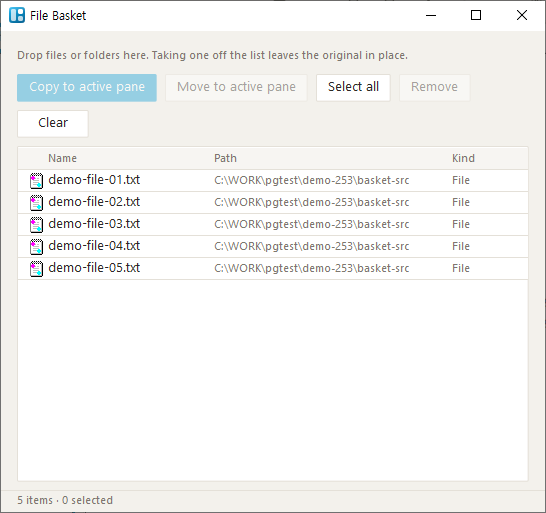
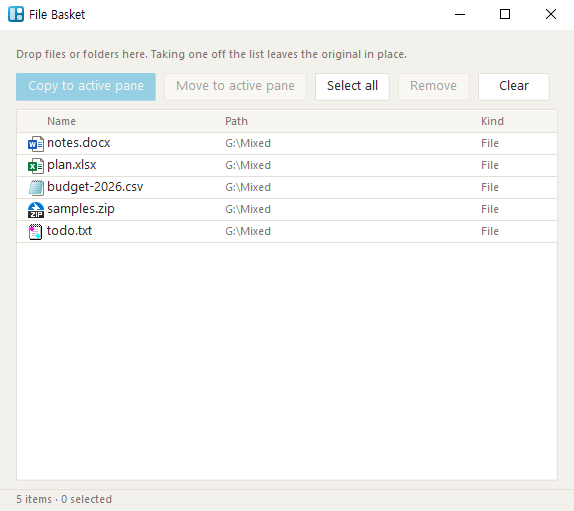
docs: recapture the File Basket screenshots on current main (#416)
The v8 feature_basket shots were byte-identical copies of v7 (546x513)
and still showed the narrow window (Clear/クリア wrapped to a second row)
and the test path C:\WORK\pgtest\demo-253. Retake en/ko/ja at 574x511
with G:\Mixed demo files so all five footer buttons sit on one row.

diff --git a/docs/CAPTURES.md b/docs/CAPTURES.md
@@ -123,9 +123,9 @@ servers.png / servers.ko.png / servers.ja.png 는 **실제 호스트·자격 증
 | favorites.ja.png | 즐겨찾기 | MaguroMain 사이드바 | light/ja | favorites 시드 | 305322 B (1226×823) | capture-main.ps1 | DWM |  |
 | favorites.ko.png | 즐겨찾기 | MaguroMain 사이드바 | light/ko | favorites 시드 | 303594 B (1226×823) | capture-main.ps1 | DWM |  |
 | favorites.png | 즐겨찾기 | MaguroMain 사이드바 | light/en | favorites 시드 | 301707 B (1226×823) | capture-main.ps1 | DWM |  |
-| feature_basket.ja.png | 파일 바구니 | MaguroBasket | light/ja | 데모 | 28005 B (544×513) | capture-features.ps1 | DWM |  |
-| feature_basket.ko.png | 파일 바구니 | MaguroBasket | light/ko | 데모 | 27101 B (544×513) | capture-features.ps1 | DWM |  |
-| feature_basket.png | 파일 바구니 | MaguroBasket | light/en | 데모 | 24121 B (546×513) | capture-features.ps1 | DWM |  |
+| feature_basket.ja.png | 파일 바구니 | MaguroBasket | light/ja | G:\Mixed 데모 5개 파일 | 18486 B (574×511) | capture-features.ps1 (WM_COMMAND 1125) | DWM | **2026-11-13 재촬영.** 이전 v8은 v7 복사(546×513, 경로 C:\WORK\pgtest\demo-253, クリア가 둘째 줄). 현재 창은 590 DIP이라 버튼 5개가 한 줄 |
+| feature_basket.ko.png | 파일 바구니 | MaguroBasket | light/ko | G:\Mixed 데모 5개 파일 | 15382 B (574×511) | capture-features.ps1 (WM_COMMAND 1125) | DWM | **2026-11-13 재촬영.** 이전 v8은 v7 복사(546×513, 경로 C:\WORK\pgtest\demo-253) |
+| feature_basket.png | 파일 바구니 | MaguroBasket | light/en | G:\Mixed demo files (5) | 14799 B (574×511) | capture-features.ps1 (WM_COMMAND 1125) | DWM | **Retaken 2026-11-13.** Previous v8 was a v7 copy (546×513, path C:\WORK\pgtest\demo-253, Clear wrapped to a second row). Current window is 590 DIP so all five footer buttons fit on one row |
 | feature_excel_readonly_tidy.ja.png | Excel 정리 | MaguroExcelTidy | light/ja | readme-excel-demo sheet.xlsx | 7672 B (422×244) | 컨텍스트 메뉴 id=0x8007 (PR #312 shared UI) | DWM | images-v4 재촬영 |
 | feature_excel_readonly_tidy.ko.png | Excel 정리 | MaguroExcelTidy | light/ko | readme-excel-demo sheet.xlsx | 5797 B (422×244) | 컨텍스트 메뉴 id=0x8007 (PR #312 shared UI) | DWM | images-v4 재촬영 |
 | feature_excel_readonly_tidy.png | Excel 정리 | MaguroExcelTidy | light/en | readme-excel-demo sheet.xlsx | 6217 B (422×244) | 컨텍스트 메뉴 id=0x8007 (PR #312 shared UI) | DWM | images-v4 재촬영 |
@@ -238,7 +238,7 @@ powershell -NoProfile -ExecutionPolicy Bypass -File docs\capture\capture-main.ps
 버튼·카드·검색 칸이 공유 토큰으로 바뀌었다. 아래 캡처는 다시 찍는다.
 
 - `feature_folder_watch.png`, `feature_folder_watch.ko.png`, `feature_folder_watch.ja.png`
-- `feature_basket.png`, `feature_basket.ko.png`, `feature_basket.ja.png`
+- `feature_basket.png`, `feature_basket.ko.png`, `feature_basket.ja.png` — **2026-11-13 재촬영 완료** (아래 변경 이력)
 - `tab_list.png`
 - `rename.png`, `rename.ko.png`, `rename.ja.png`
 - `copy_progress.png`, `copy_progress.ko.png`, `copy_progress.ja.png` — 푸터 버튼이 28 DIP라 창 높이는 480×148. 위 표의 480×152는 재촬영 전 값이다.
@@ -249,6 +249,7 @@ powershell -NoProfile -ExecutionPolicy Bypass -File docs\capture\capture-main.ps
 
 ## 변경 이력 (관련)
 
+- **2026-11-13 (basket):** `feature_basket.png` / `.ko` / `.ja` 를 현재 main(7356696)에서 다시 찍어 `docs/images-v8/{en,ko,ja}/` 에 넣음. 이전 v8 파일은 v7과 바이트가 같았고, 창이 546×513이라 영어·일본어에서 Clear/クリア가 둘째 줄로 접혔으며 경로는 테스트용 `C:\WORK\pgtest\demo-253\basket-src` 였다. 새 샷은 574×511, 데모 경로는 `G:\Mixed` (notes.docx, plan.xlsx, budget-2026.csv, samples.zip, todo.txt), 버튼 5개가 한 줄.
 - **2026-11-13:** 세그먼트 컨트롤 반영 재촬영 → `docs/images-v8/` (84장, common/en/ja/ko). servers.png(en/ko/ja, 406×526)와 settings_ctxmenu.png(en/ko/ja, 984×631)만 새로 찍고 나머지는 v7을 복사. 우클릭 시간 기록을 Advanced로 옮기고(#393) 페이지 안내문을 뺀 화면. README·도움말 경로 images-v7 → images-v8. `docs/images-v7/`는 트리에 남김(옛 URL을 덮어쓰지 않음). 시드 `readme2-cfgs-v6`.
 - **2026-11-08 (v0.2.10):** 버튼 높이 28 반영 재촬영 → `docs/images-v7/` (84장, common/en/ja/ko). README·도움말 경로 images-v6 → images-v7. 시드 `readme2-cfgs-v6`. 폴더 감시 위쪽 버튼은 28이다.
 - **2026-11-06 (v0.2.7):** 글꼴 +1 릴리스 후 전체 재촬영 → `docs/images-v6/` (84장, common/en/ja/ko). README·도움말 경로 images-v5 → images-v6. 시드 `readme2-cfgs-v6`(fav_panel+tree_panel, side_split=0.5). copy_progress는 help-demo\src 2GB 파일로. 루트 `workspaces*.png`(톱니 하위 메뉴, 참조 없음)는 공식 스크립트가 없어 v6에 넣지 않음.
